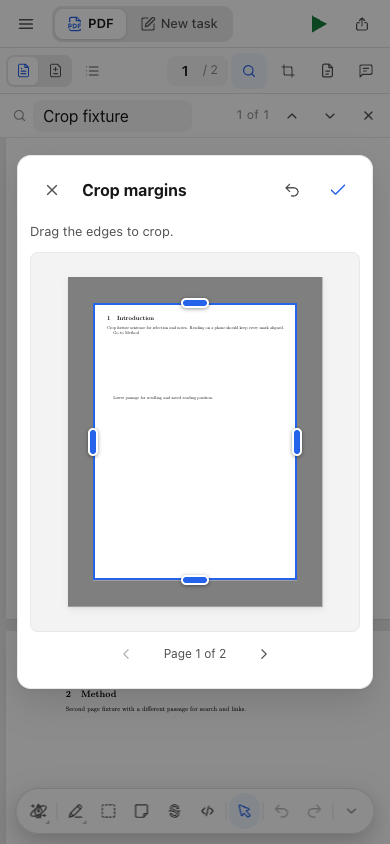
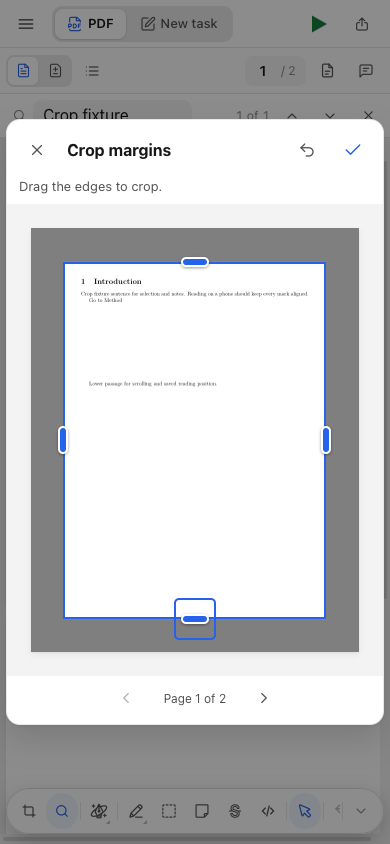
Expand crop previews and group PDF reading tools

diff --git a/src/web/pdf-view.tsx b/src/web/pdf-view.tsx
@@ -218,7 +218,7 @@ export const PdfView = forwardRef<PdfHandle, {
   const root = useRef<HTMLDivElement>(null), container = useRef<HTMLDivElement>(null), inner = useRef<HTMLDivElement>(null), findInput = useRef<HTMLInputElement>(null);
   const tools = useRef<{ bus: EventBus; links: PDFLinkService; find: PDFFindController; viewer: PDFViewer; cropTo: (crop: PdfCrop) => void } | null>(null);
   const [crop, setCrop] = useState(() => readPdfCrop(props.place)), cropRef = useRef(crop);
-  const [cropping, setCropping] = useState(false), cropButton = useRef<HTMLButtonElement>(null);
+  const [cropping, setCropping] = useState(false);
   const loaded = useRef<PDFDocumentProxy | null>(null), restore = useRef<{ scale: string; top: number; left: number } | null>(null);
   const layerMap = useRef(new Map<number, HTMLElement>());
   const [layers, setLayers] = useState(new Map<number, HTMLElement>());
@@ -833,6 +833,10 @@ export const PdfView = forwardRef<PdfHandle, {
     : note.kind === 'delete' ? note.comment ? t('Replacement {n}: {text}', { n: label, text: note.comment }) : t('Deletion {n}', { n: label })
     : t('Note {n}: {comment}', { n: label, comment: note.group ? groupName(note.group) : note.comment });
 
+  const readingTools = (className: string) => <>
+    <button type="button" className={className + ' pdf-crop-toggle' + (isCropped(crop) ? ' active' : '')} aria-label={t('Crop margins')} title={t('Crop margins')} aria-haspopup="dialog" disabled={loading || Boolean(error) || Boolean(editing) || noteLocked} onClick={() => { clearSelection(); setCropping(true); }}><Icon name="crop" size={16}/></button>
+    <PdfFindButton className={className} open={findOpen} onClick={() => { if (findOpen) closeFind(); else setFindOpen(true); }}/>
+  </>;
   return <div ref={root} className={'pdf-view' + (isCropped(crop) ? ' pdf-cropped' : '') + (props.region ? ' marking' : '') + (markable ? ` tool-${active}` : '')} onKeyDown={event => {
     if (!activeSuggestion || noteLocked || editing || props.region || event.defaultPrevented || event.nativeEvent.isComposing || event.keyCode === 229 || event.altKey || event.ctrlKey || event.metaKey || event.shiftKey) return;
     if (event.key !== 'ArrowLeft' && event.key !== 'ArrowRight') return;
@@ -849,11 +853,11 @@ export const PdfView = forwardRef<PdfHandle, {
       <PdfContents outline={props.outline} section={props.section} ready={!loading} onSelect={item => { void tools.current?.links.goToDestination(item.dest as string | unknown[]); }}/>
       <div className="pdf-toolbar-spacer"/>
       <PdfPageControls page={page} pages={pages} zoom={zoom} onPage={number => { if (tools.current) tools.current.viewer.currentPageNumber = number; }} onZoom={value => { if (tools.current) tools.current.viewer.currentScaleValue = value; }} onZoomBy={factor => tools.current?.viewer.updateScale({ scaleFactor: factor })}/>
-      <PdfFindButton open={findOpen} onClick={() => { if (findOpen) closeFind(); else setFindOpen(true); }}/>
-      <button ref={cropButton} type="button" className={'icon-button pdf-crop-toggle' + (isCropped(crop) ? ' active' : '')} aria-label={t('Crop margins')} title={t('Crop margins')} aria-haspopup="dialog" disabled={loading || Boolean(error) || Boolean(editing) || noteLocked} onClick={() => { clearSelection(); setCropping(true); }}><Icon name="crop" size={16}/></button>
+      {!markable && readingTools('icon-button')}
 
       {/* Narrow desktop panes keep compact tools; phones show a collapsible bottom capsule. */}
       {markable && <span className="pdf-compact-tools">
+        {readingTools('icon-button')}
         <button type="button" className={'icon-button region-toggle' + (props.region ? ' active' : '')} aria-label={t('Mark region')} aria-pressed={props.region} title={t('Mark a figure or region')} onClick={() => pickTool(props.region ? 'select' : 'region')}><Icon name="region" size={16}/></button>
         {props.onGroupChange && <GroupPicker value={props.group || null} onChange={group => { props.onGroupChange!(group); if (group && tool !== 'region') choose('note'); }} disabled={props.markingDisabled || Boolean(editing)}/>}
       </span>}
@@ -862,7 +866,7 @@ export const PdfView = forwardRef<PdfHandle, {
     </div>
     {findOpen && <PdfFind inputRef={findInput} query={query} matches={matches} notFound={notFound} onQuery={text => { setQuery(text); search(false, false, text); }} onNext={previous => search(true, previous)} onClose={closeFind}/>}
     <div className="pdf-body">
-    {markable && <PdfToolRail tool={tool} onTool={pickTool} group={props.group || null} onGroup={props.onGroupChange} disabled={props.markingDisabled} suspended={props.suspended} editing={Boolean(editing)} stamps={stamps} locked={locked} onLock={slot => slot === null ? setLocked(null) : lock(slot)} history={props.history} sourceTool={Boolean(props.onSource)}/>}
+    {markable && <PdfToolRail tool={tool} onTool={pickTool} group={props.group || null} onGroup={props.onGroupChange} disabled={props.markingDisabled} suspended={props.suspended} editing={Boolean(editing)} stamps={stamps} locked={locked} onLock={slot => slot === null ? setLocked(null) : lock(slot)} history={props.history} sourceTool={Boolean(props.onSource)} readingTools={readingTools('rail-tool')}/>}
     <div className="pdf-scroll-host">
       <div ref={container} className="pdf-container" tabIndex={0} aria-label={t('PDF pages')}>
         <div ref={inner} className="pdfViewer"/>
@@ -875,7 +879,12 @@ export const PdfView = forwardRef<PdfHandle, {
     </div>
     {wheel && <StampWheel x={wheel.x} y={wheel.y} stamps={stamps} onPick={pickStamp} onClose={() => { setWheel(null); container.current?.focus({ preventScroll: true }); }}
       onFree={() => { const target = wheel.target; setWheel(null); openCard(target); }}/>}
-    {cropping && loaded.current && <PdfCropDialog document={loaded.current} page={page} crop={crop} onApply={next => tools.current?.cropTo(next)} onClose={() => { setCropping(false); cropButton.current?.focus({ preventScroll: true }); }}/>}
+    {cropping && loaded.current && <PdfCropDialog document={loaded.current} page={page} crop={crop} onApply={next => tools.current?.cropTo(next)} onClose={() => {
+      setCropping(false);
+      // A resize can move the entry between the rail and compact toolbar.
+      const buttons = root.current?.querySelectorAll<HTMLButtonElement>('.pdf-crop-toggle');
+      [...buttons || []].find(button => button.getClientRects().length)?.focus({ preventScroll: true });
+    }}/>}
     {[...layers].map(([number, layer]) => createPortal(<Fragment>
       {(() => {
         const width = crop[2] - crop[0], height = crop[3] - crop[1], compact = layer.clientWidth * width <= 680;

diff --git a/src/web/pdf-crop-dialog.tsx b/src/web/pdf-crop-dialog.tsx
@@ -30,10 +30,15 @@ export function PdfCropDialog({ document, page, crop, onApply, onClose }: {
         await render?.promise.catch(() => {});
         const pdfPage = await document.getPage(number);
         if (disposed || own !== generation) return;
-        const area = stage.current!, full = fullPageViewport(pdfPage, { scale: 1 });
-        const scale = Math.min((area.clientWidth - 48) / full.width, (area.clientHeight - 48) / full.height);
+        const area = stage.current!, modal = dialog.current!, full = fullPageViewport(pdfPage, { scale: 1 });
+        const style = getComputedStyle(modal), border = modal.offsetHeight - modal.clientHeight;
+        // Fit the page to the viewport, reserving the actual height of the
+        // controls and 24px on each edge for the 44px drag targets.
+        const controls = modal.scrollHeight - area.clientHeight + border;
+        const scale = Math.min((parseFloat(style.maxWidth) - border - 48) / full.width, (parseFloat(style.maxHeight) - controls - 48) / full.height);
         if (scale <= 0) return;
         const viewport = fullPageViewport(pdfPage, { scale }), pixelRatio = Math.min(window.devicePixelRatio || 1, 2), target = canvas.current!;
+        area.style.width = `${viewport.width + 48}px`; area.style.height = `${viewport.height + 48}px`;
         target.width = Math.ceil(viewport.width * pixelRatio); target.height = Math.ceil(viewport.height * pixelRatio);
         preview.current!.style.width = `${viewport.width}px`; preview.current!.style.height = `${viewport.height}px`;
         render = pdfPage.render({ canvas: target, viewport, transform: [pixelRatio, 0, 0, pixelRatio, 0, 0] });
@@ -43,9 +48,11 @@ export function PdfCropDialog({ document, page, crop, onApply, onClose }: {
         if (!disposed && own === generation) setError(true);
       }
     };
-    const observer = new ResizeObserver(() => { cancelAnimationFrame(frame); frame = requestAnimationFrame(() => void draw()); });
-    observer.observe(stage.current!);
-    return () => { disposed = true; generation++; observer.disconnect(); cancelAnimationFrame(frame); render?.cancel(); };
+    const resize = () => { cancelAnimationFrame(frame); frame = requestAnimationFrame(() => void draw()); };
+    const observer = new ResizeObserver(resize);
+    for (const element of dialog.current!.children) if (element !== stage.current) observer.observe(element);
+    window.addEventListener('resize', resize);
+    return () => { disposed = true; generation++; observer.disconnect(); window.removeEventListener('resize', resize); cancelAnimationFrame(frame); render?.cancel(); };
   }, [document, number, retry]);
   return <dialog ref={dialog} className="pdf-crop-dialog" aria-labelledby={title} onClose={onClose}>
     <header>

diff --git a/src/web/pdf-crop.css b/src/web/pdf-crop.css
@@ -1,11 +1,11 @@
-.pdf-crop-dialog{width:min(560px,calc(100% - 24px));max-height:calc(100dvh - 24px);margin:auto;padding:20px;border:1px solid var(--line);border-radius:var(--r-lg);background:var(--bg);color:var(--text);box-shadow:var(--float);overflow:auto;overscroll-behavior:contain}
+.pdf-crop-dialog{width:max-content;min-width:min(300px,calc(100dvw - 12px));max-width:calc(100dvw - 12px);max-height:calc(100dvh - 12px);margin:auto;padding:8px 0 4px;border:1px solid var(--line);border-radius:var(--r-lg);background:var(--bg);color:var(--text);box-shadow:var(--float);overflow:auto;overscroll-behavior:contain}
 .pdf-crop-dialog::backdrop{background:rgb(0 0 0/.45);overflow:hidden;overscroll-behavior:contain}
-.pdf-crop-dialog header{display:flex;align-items:center;gap:8px}
+.pdf-crop-dialog header{display:flex;align-items:center;gap:8px;padding-inline:8px}
 .pdf-crop-dialog h2{flex:1;min-width:0;margin:0;font-size:16px;line-height:1.3}
 .pdf-crop-actions{display:flex;align-items:center;gap:2px}
 .pdf-crop-dialog .pdf-crop-apply{color:var(--accent)}
-.pdf-crop-dialog p{margin:10px 0;font-size:13px;line-height:1.5;color:var(--text-2)}
-.pdf-crop-stage{height:clamp(180px,45dvh,420px);position:relative;display:grid;place-items:center;background:var(--canvas);border:1px solid var(--line);border-radius:var(--r);overflow:hidden}
+.pdf-crop-dialog p{margin:4px 12px 8px;font-size:13px;line-height:1.5;color:var(--text-2)}
+.pdf-crop-stage{width:min(560px,calc(100dvw - 14px));max-width:100%;height:300px;margin-inline:auto;position:relative;display:grid;place-items:center;background:var(--canvas);overflow:hidden}
 .pdf-crop-preview{position:relative;flex-shrink:0;box-shadow:var(--shadow-sm)}
 .pdf-crop-preview canvas{display:block;width:100%;height:100%;filter:var(--pdf-filter)}
 .pdf-crop-shade{position:absolute;inset:0;background:rgb(0 0 0/.5);pointer-events:none}
@@ -22,7 +22,6 @@
 /* Make room for the extra tool before a medium desktop toolbar wraps. */
 @container (min-width:761px) and (max-width:1000px){.pdf-toolbar .pdf-contents-trigger{width:30px;padding:0;justify-content:center}.pdf-toolbar .pdf-contents-trigger>span,.pdf-toolbar .pdf-contents-trigger>svg:last-child{display:none}}
 @media(pointer:coarse){.pdf-crop-dialog .button,.pdf-crop-dialog .icon-button{min-height:44px}.pdf-crop-dialog .icon-button{min-width:44px}}
-@media(max-width:400px){.pdf-crop-dialog{padding:12px}}
 .pdf-cropped .pdf-container .pdfViewer .page{overflow:clip}
 /* PDF.js fits to the scroll container's width, which excludes no viewer padding. */
 .pdf-cropped .pdf-container .pdfViewer{padding-inline:0}

diff --git a/src/web/pdf-tool-rail.tsx b/src/web/pdf-tool-rail.tsx
@@ -1,4 +1,4 @@
-import { Fragment, useEffect, useId, useRef, useState } from 'react';
+import { Fragment, useEffect, useId, useRef, useState, type ReactNode } from 'react';
 import type { NoteGroup } from '../note-groups.ts';
 import { GroupPicker } from './note-groups.tsx';
 import { StampMenu } from './stamp-menu.tsx';
@@ -33,10 +33,11 @@ function showRailTip(button: Element | null) {
 }
 
 // Shared by the manuscript and the embedded review; gestures stay with each viewer.
-export function PdfToolRail({ tool, onTool, group, onGroup, disabled, suspended, editing, stamps, locked, onLock, history, sourceTool }: {
+export function PdfToolRail({ tool, onTool, group, onGroup, disabled, suspended, editing, stamps, locked, onLock, history, sourceTool, readingTools }: {
   tool: PdfTool; onTool: (tool: PdfTool) => void;
   /** Offer the tool that opens a passage's LaTeX for editing by hand. */
   sourceTool?: boolean;
+  readingTools?: ReactNode;
   group: NoteGroup | null; onGroup?: (group: NoteGroup | null) => void;
   disabled?: boolean; suspended?: boolean; editing?: boolean;
   stamps: Stamp[]; locked: number | null; onLock: (slot: number | null) => void;
@@ -128,6 +129,7 @@ export function PdfToolRail({ tool, onTool, group, onGroup, disabled, suspended,
       {mobile && !collapsed && <span className="rail-separator rail-collapse-separator" aria-hidden="true"/>}
       <div id={railId} className="rail-items" hidden={collapsed}>
       <div className="rail-tools">
+      {!collapsed && readingTools && <>{readingTools}<span className="rail-separator" aria-hidden="true"/></>}
       {!collapsed && visibleTools.map(item => {
         const content = <><Icon name={item.icon} size={item.id === 'magic' ? 22 : 18}/>
           {item.id === 'magic' && locked !== null && <span className="rail-badge" aria-hidden="true">{slotKey(locked)}</span>}

diff --git a/src/web/pdf-controls.tsx b/src/web/pdf-controls.tsx
@@ -43,8 +43,8 @@ export function PdfPageControls({ page, pages, zoom, onPage, onZoom, onZoomBy }:
   </>;
 }
 
-export function PdfFindButton({ open, onClick }: { open: boolean; onClick: () => void }) {
-  return <button type="button" className={'icon-button' + (open ? ' active' : '')} aria-label={t('Find in PDF')} aria-pressed={open} title={t('Find (⌘F)')} onClick={onClick}><Icon name="search" size={16}/></button>;
+export function PdfFindButton({ open, onClick, className = 'icon-button' }: { open: boolean; onClick: () => void; className?: string }) {
+  return <button type="button" className={className + (open ? ' active' : '')} aria-label={t('Find in PDF')} aria-pressed={open} title={t('Find (⌘F)')} onClick={onClick}><Icon name="search" size={16}/></button>;
 }
 
 export function PdfFind({ inputRef, query, matches, notFound, onQuery, onNext, onClose }: {

diff --git a/src/web/pdf-tools.css b/src/web/pdf-tools.css
@@ -17,6 +17,7 @@
 .rail-tool{position:relative;display:flex;align-items:center;justify-content:center;width:34px;height:34px;flex:none;border-radius:9px;color:var(--text-2);transition:background .12s,color .12s}
 .rail-tool:hover:not(:disabled){background:var(--bg-hover);color:var(--text)}
 .rail-tool[aria-pressed=true]{background:var(--accent-soft);color:var(--accent)}
+.rail-tool.pdf-crop-toggle.active{background:var(--accent-soft);color:var(--accent)}
 .rail-tool:disabled{opacity:.4;cursor:default}
 .rail-tool:focus-visible{outline:2px solid var(--accent);outline-offset:1px}
 .rail-separator{flex:none;width:20px;height:1px;margin:5px 0;background:var(--line)}

diff --git a/CHANGELOG.md b/CHANGELOG.md
@@ -6,7 +6,7 @@ Notable changes to Papilot, newest first. The format follows [Keep a Changelog](
 
 ### Added
 
-- **Crop PDF margins for mobile reading.** Choose **Crop margins** in the PDF toolbar, drag the four edges, then apply the crop to every page. **Fit width** fits the remaining area, and each document remembers its crop on this device across reopening and recompilation. **Reset** restores the full page. Notes and source locations stay aligned, and exported PDFs keep their original margins. ([#194](https://github.com/PapilotAI/papilot/issues/194))
+- **Crop PDF margins for mobile reading.** Choose **Crop margins** beside **Find** in the PDF tool rail, drag the four edges in the page-shaped preview, then apply the crop to every page. The preview fills the available screen space. **Fit width** fits the remaining area, and each document remembers its crop on this device across reopening and recompilation. **Reset** restores the full page. Notes and source locations stay aligned, and exported PDFs keep their original margins. ([#194](https://github.com/PapilotAI/papilot/issues/194))
 - **Browse the repository and compile any of its documents.** **Manuscript** in the sidebar names the document it compiles; select the name to list the paper's repository, where any text file opens in the source editor beside the PDF. When a repository holds several root documents, such as a thesis, its slides and a response letter, the play button on a document's row compiles it instead of the current one. Each document keeps its own build settings, notes and reading position, and a task keeps compiling the document it was started on. ([#188](https://github.com/PapilotAI/papilot/pull/188))
 - **Run Papilot from an installation that pins its version.** Container images, server deployments and system packages can set `PAPILOT_INSTALL_METHOD=managed` to get the behavior the Nix package already has: Papilot never checks for or installs updates, ignores releases that earlier in-app updates installed, and never downloads Codex or agent SDKs at runtime. **Settings → Updates** shows the current version with a note that updates are managed outside Papilot, without the unavailable **Check for updates** button (Nix installations too). A missing SDK names the package to install, and `papilot doctor` suggests installing Codex and SDKs with the installation. Under Nix, `papilot doctor` now finds the agent SDKs the package includes. See [Updates](docs/guide.md#updates). ([#190](https://github.com/PapilotAI/papilot/pull/190))
 - **Start a paper from a template.** **New paper…** opens a gallery of [Papilot Universe](https://papilot.ai/universe/) templates (university theses, conference and journal author kits, slides, posters, CVs and books, plus more than 400 conferences, each pointing at the template its call for papers asks for) with type filters and search, beside **Blank paper**. Papilot downloads the chosen version, verifies its checksum, creates the folder with Git history and sets the template's main file and engine. **Open in Papilot** on a template's Universe page opens the desktop app with that template chosen. Offline, only the blank paper is offered.

diff --git a/docs/guide.md b/docs/guide.md
@@ -180,7 +180,7 @@ Turn on **Settings → Notifications** to receive browser notifications while Pa
 
 ### Crop PDF margins
 
-On a phone or a narrow panel, choose **Crop margins** in the PDF toolbar to make the text fill more of the screen. Drag the four edges in the preview. You can also focus an edge and use the arrow keys. Use the page arrows to check the crop on other pages, then choose the checkmark (**Apply**) in the title bar to apply it to the whole document and fit the remaining width.
+Choose **Crop margins** beside **Find** at the start of the PDF tool rail (the floating bottom toolbar on phones, or the left toolbar on desktop). Narrow desktop panels and read-only PDFs keep these controls in the top bar. The crop preview follows the page proportions and fits the available screen space. Drag its four edges, or focus an edge and use the arrow keys. Use the page arrows to check the crop on other pages, then choose the checkmark (**Apply**) in the title bar to apply it to the whole document and fit the remaining width.
 
 <img src="assets/pdf-crop-editor.png" alt="Adjusting the four PDF margins on a phone" width="280"> <img src="assets/pdf-crop-reading.png" alt="Reading the cropped PDF at Fit width" width="280">
 
